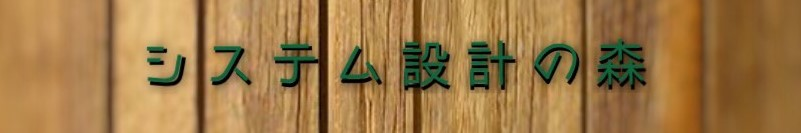
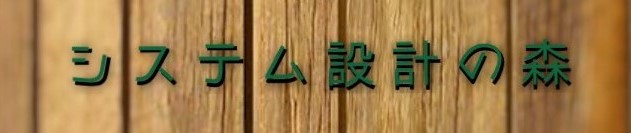
時間指定のCSS変更

diff --git a/source/index.html b/source/index.html
@@ -22,31 +22,33 @@
     <body>
         <div id="header"></div>
         <div style="text-align: center;">
-            <div class="tile2">
-                <form action="" method="post" name="reserch-form" id="reserch-form">
-                    <div id="reserch">
-                        <input id="inputkeyword" type="text" name="reserchkey" placeholder="キーワードを入力">
-                        <input id="searchbtn" type="button" value="検索" onclick="location.href='./reserch.php'">
-                    </div>
-                </form> 
-            </div>
-            <div class="time">
-                <div class="time2">
-                    <label>時間指定 </label>
-                    <input type="radio"  name="time" onclick="func1()"checked id="r1"><label for="r1">なし</label>
-                    <input type="radio" name="time"onclick="func2()" id="r2"><label for="r2">あり</label>
-                    <input type="datetime-local"id="not"disabled="disabled">～<input type="datetime-local"id="no"disabled="disabled">
+            <div class="timer">
+                <div class="tile2">
+                    <form action="" method="post" name="reserch-form" id="reserch-form">
+                        <div id="reserch">
+                            <input id="inputkeyword" type="text" name="reserchkey" placeholder="キーワードを入力">
+                            <input id="searchbtn" type="button" value="検索" onclick="location.href='./reserch.php'">
+                        </div>
+                    </form> 
                 </div>
-                <script>
-                function func1() {
-                    document.getElementById("not").disabled = true;
-                    document.getElementById("no").disabled = true;
-                }/*アリとなしの選択*/
-                function func2() {
-                    document.getElementById("not").disabled = false;
-                    document.getElementById("no").disabled = false;
-                }
-                </script>
+                <div class="time">
+                    <div class="time2">
+                        <label>時間指定 :  </label>
+                        <input type="radio"  name="time" onclick="func1()"checked id="r1"><label for="r1">なし</label>
+                        <input type="radio" name="time"onclick="func2()" id="r2"><label for="r2">あり</label>
+                        <input type="datetime-local"id="not"disabled="disabled">～<input type="datetime-local"id="no"disabled="disabled">
+                    </div>
+                    <script>
+                    function func1() {
+                        document.getElementById("not").disabled = true;
+                        document.getElementById("no").disabled = true;
+                    }/*アリとなしの選択*/
+                    function func2() {
+                        document.getElementById("not").disabled = false;
+                        document.getElementById("no").disabled = false;
+                    }
+                    </script>
+                </div>
             </div>
         </div>
         <div class="main">

diff --git a/source/header.html b/source/header.html
@@ -3,15 +3,18 @@
 <head>
     <meta charset="UTF-8">
 </head>
-<body>
-    <div class="header">
-        <div class="img">
-            <a href="index.html"><img src="../images/S__1517240371.jpg" alt="次へ" title="ここをクリックするとトップに戻ります"></a>
+    <main>
+        <div class="header">
+            <div class="img">
+                <a href="index.html"><img src="../images/S__1517240371.jpg" alt="次へ" title="ここをクリックするとトップに戻ります" ></a>
+            </div>
         </div>
-    </div>
-    <div class="headermenu">
-        <a class="button1" href="./new.php">スレッドの新規作成</a>
-        <a class="button1" href="./name.php">ニックネーム変更</a>
-    </div>
-</body>
+    </main>
+
+    <body>
+        <div class="headermenu">
+            <a class="button1" href="./new.php">スレッドの新規作成</a>
+            <a class="button1" href="./name.php">ニックネーム変更</a>
+        </div>
+    </body>
 </html>

diff --git a/styles/style.css b/styles/style.css
@@ -1,11 +1,13 @@
 /*<!--header-->*/
-html{
+body{
     margin-left: auto;
     margin-right: auto;
-    width: 85%;
+   width: 85%;
 }
-.header{
-    width: 100%;
+ .header img{
+    width: 50vw;
+    margin-left: auto;
+    margin-right: auto; 
 }
 .headermenu {
     display: grid;
@@ -35,10 +37,17 @@ html{
 .time {
     font-size: 20px;
     margin: 5px;
+
+}
+.timer{
+    border:2px solid #666; 
+    padding: 5px;
+    border-radius: 5px;
+    margin-bottom: 20px;
 }
 .time2 input[type="radio"] + label{
     cursor        : pointer;                    /* カーソル設定 */
-    transition    : .2s;                        /* なめらか変化 */
+    transition    : .2s;  /* なめらか変化 */
 }
 .time2 input[type="radio"] + label:hover{
     background:  #b6dac5;
